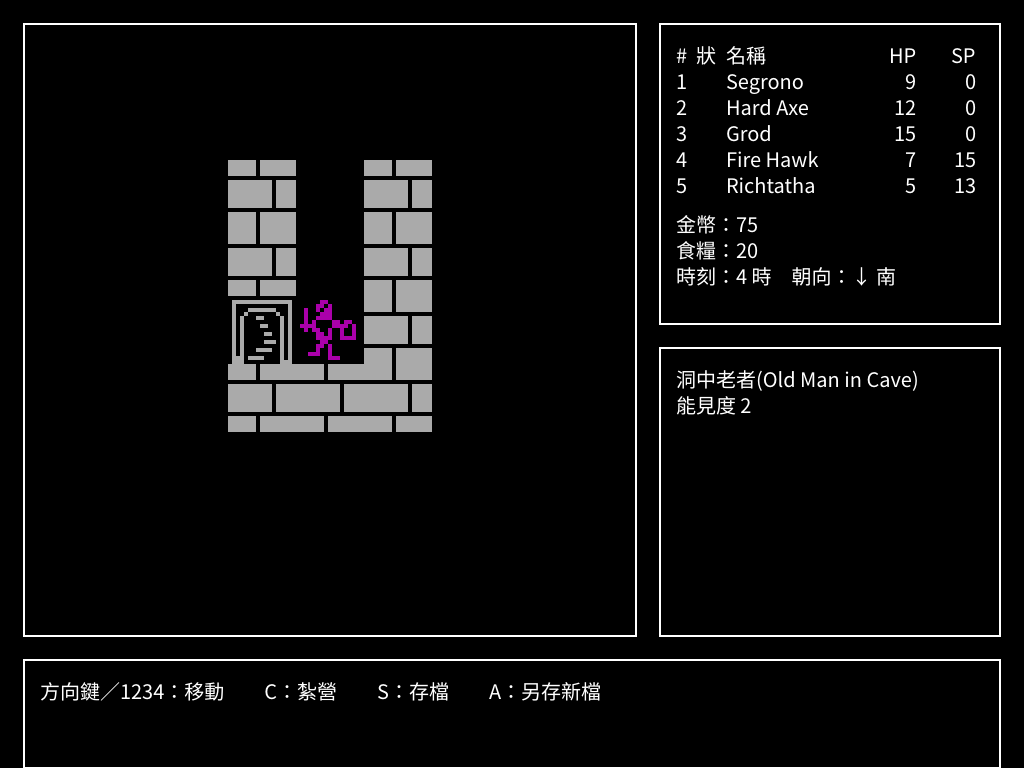
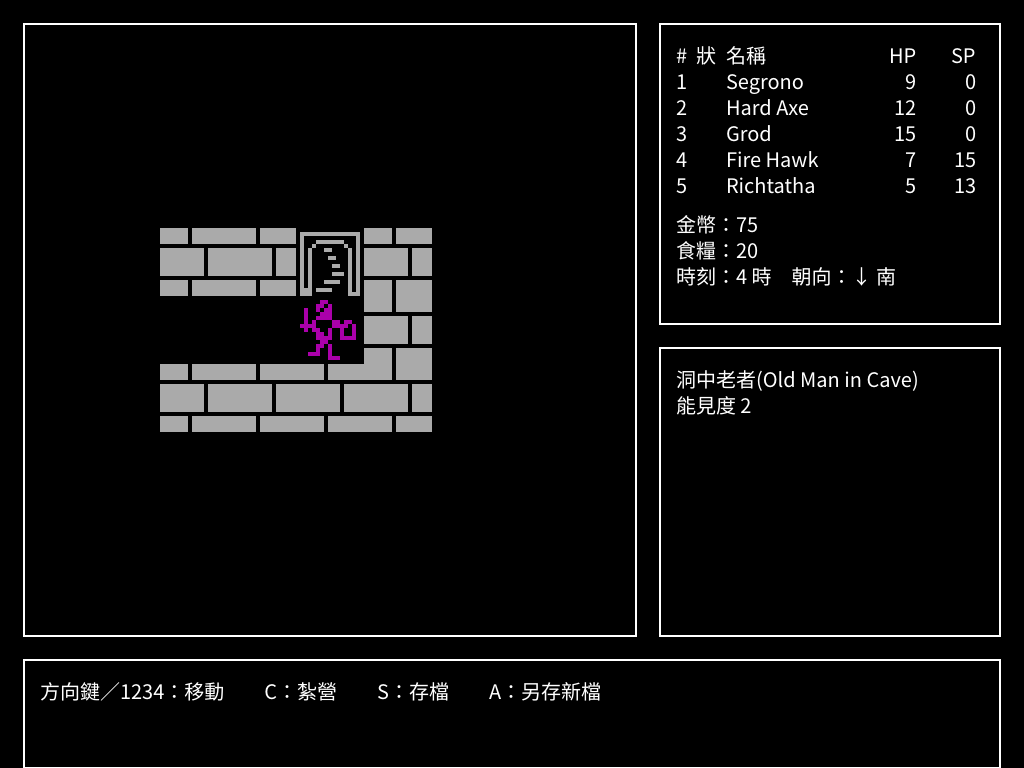
迷宮兩軸修正:Major 是南北、Minor 是東西
QA 第三輪 B 組最重的一條。引擎先前取「Major 是水平」——
那是 maze.go 註解自己標明的實作決定,而不是 RE 結論。

判準是**事件表自己**(docs/re/224):事件的方向欄是「站上這一格時
面向哪裡」,所以來源格 = 事件格 − delta(方向),來源格是牆的事件
永遠觸發不了。419 個帶方向的事件,正確的對應讓 418 個有可走的來源格,
先前的對應只剩 75 個 —— 差 5.6 倍。

看得見的後果:治療池 (54,42) Dir=4 的四鄰只有一格走得通,而先前的
對應要求的來源格是牆 —— **那座池子沒有任何路徑可以觸發**,
畫面上卻看不出任何異常。修正後與原版截圖逐格吻合。

⚠ 兩處要一起改:`delta()` 與 `drawMaze` 的軸。只改一邊會更糟。
⚠ 既有測試擋不住,因為它們用自己造的格子圖 —— fixture 用哪一套座標寫,
就會通過哪一套。新的 `TestEveryDirectionalEventHasAWalkableSource`
讀原版三個檔算可達性。

Changed region(s): [[0.1562, 0.1875, 0.4375, 0.5625]]

diff --git a/engine/internal/maze/maze_test.go b/engine/internal/maze/maze_test.go
@@ -1,6 +1,9 @@
 package maze
 
 import (
+	"fmt"
+	"os"
+	"path/filepath"
 	"testing"
 
 	"shardofspring/internal/original"
@@ -35,7 +38,8 @@ func TestBlockingIsAnInterval(t *testing.T) {
 		tile int
 		want Result
 	}{{4, Moved}, {5, Blocked}, {10, Blocked}, {11, Moved}, {19, Moved}} {
-		m := grid(map[[2]int]int{{5, 4}: c.tile})
+		// ⚠ 北是 **Major−1**(docs/re/224:Major 是南北軸),不是 Minor−1。
+		m := grid(map[[2]int]int{{4, 5}: c.tile})
 		s := &State{Major: 5, Minor: 5, Facing: North}
 		if r := s.Step(North, m); r != c.want {
 			t.Errorf("格值 %d:得 %v,應為 %v", c.tile, r, c.want)
@@ -267,4 +271,77 @@ func TestDisableTargetBlanksEveryRow(t *testing.T) {
 	if got := Scan(evs, State{Major: 57, Minor: 14, Facing: North}, text).Kind; got != KindNone {
 		t.Errorf("作廢後仍掃得到:%v", got)
 	}
+}
+
+// TestEveryDirectionalEventHasAWalkableSource —— 每個帶方向的事件都要走得進去。
+//
+// 事件的方向欄是「站上這一格時面向哪裡」,而面向 = 上一步的方向,
+// 所以來源格 = 事件格 − delta(方向)。**來源格是牆的事件永遠觸發不了。**
+//
+// 這條同時是兩軸對應的判準(docs/re/224):419 個帶方向的事件裡,
+// 正確的對應讓 418 個有可走的來源格;兩軸對調只剩 75 個。
+// ⛔ 這不是「大部分都對就好」—— 差距是 5.6 倍,不會看錯。
+//
+// ⚠ 唯一那一個例外在 `DT5` 的 (77,1),來源格是 Minor 0(邊界)。沒查。
+func TestEveryDirectionalEventHasAWalkableSource(t *testing.T) {
+	dir := gameDir(t)
+	entries, err := original.ParseMazeData(readGame(t, dir, "MAZEDATA.BIN"))
+	if err != nil {
+		t.Fatal(err)
+	}
+	ok, bad := 0, 0
+	for _, e := range entries {
+		if e.MazeFile == 0 {
+			continue
+		}
+		grid, err := original.DecodeSQZ(readGame(t, dir,
+			fmt.Sprintf("DG%dMAZE.SQZ", e.MazeFile)))
+		if err != nil {
+			t.Fatal(err)
+		}
+		evs, err := original.ParseEvents(readGame(t, dir,
+			fmt.Sprintf("DE%dEFF.BIN", e.TextFile)))
+		if err != nil {
+			t.Fatal(err)
+		}
+		for _, ev := range evs {
+			if ev.Dir == 0 || (ev.Major == 0 && ev.Minor == 0) {
+				continue
+			}
+			dM, dm := Facing(ev.Dir).delta()
+			if original.MazePassable(grid.At(ev.Major-dM, ev.Minor-dm)) {
+				ok++
+			} else {
+				bad++
+			}
+		}
+	}
+	if ok == 0 {
+		t.Fatal("一個帶方向的事件都沒掃到 —— 這條檢查什麼都沒測")
+	}
+	if ok < bad*5 {
+		t.Errorf("帶方向的事件:可達 %d、不可達 %d —— 兩軸的對應反了?"+
+			"(docs/re/224:正確的對應是 418 比 1)", ok, bad)
+	}
+}
+
+// gameDir / readGame:找原版目錄並讀檔。找不到就 skip(同 gate_test.go)。
+func gameDir(t *testing.T) string {
+	t.Helper()
+	for _, d := range []string{"/game/sharspri", "../../../../game/sharspri"} {
+		if _, err := os.Stat(d); err == nil {
+			return d
+		}
+	}
+	t.Skip("找不到原版 game/sharspri —— 這一項沒有被驗證")
+	return ""
+}
+
+func readGame(t *testing.T, dir, name string) []byte {
+	t.Helper()
+	b, err := os.ReadFile(filepath.Join(dir, name))
+	if err != nil {
+		t.Fatal(err)
+	}
+	return b
 }

diff --git a/engine/internal/maze/maze.go b/engine/internal/maze/maze.go
@@ -38,19 +38,24 @@ const (
 
 // delta 回傳朝向在 (Major, Minor) 上的位移。
 //
-// ⚠ Major 是乘 81 的那個索引(docs/re/137)。哪個方向動 Major、
-// 哪個動 Minor,**沒有被 RE 確認過** —— 這裡取「Major 是水平、Minor 是垂直」,
-// 與世界地圖的 x/y 對齊,是實作決定。走起來若發現迷宮橫豎顛倒,改這裡。
+// **Major 是南北(列)、Minor 是東西(行)**(docs/re/224)——
+// 也就是 `Major = y`、`Minor = x`,與直覺相反的那一邊。
+//
+// 判準是**事件表自己**:每個帶方向的事件都要有一格走得進來的來源格
+// (站上去的那一步的前一格)。419 個帶方向的事件裡,
+// 這個對應讓 **418 個**有可走的來源格;把兩軸對調只剩 **75 個**。
+// ⛔ 不要「照世界地圖的 x/y 對齊」去猜 —— 那正是先前的實作決定,
+// 而它讓治療池那類事件**完全沒有路徑可以觸發**(來源格是牆)。
 func (f Facing) delta() (dMajor, dMinor int) {
 	switch f {
 	case North:
-		return 0, -1
-	case East:
-		return 1, 0
-	case South:
-		return 0, 1
-	case West:
 		return -1, 0
+	case East:
+		return 0, 1
+	case South:
+		return 1, 0
+	case West:
+		return 0, -1
 	}
 	return 0, 0
 }

diff --git a/engine/internal/maze/gate_test.go b/engine/internal/maze/gate_test.go
@@ -105,15 +105,15 @@ func TestPartyCanWalkThroughOpenedGate(t *testing.T) {
 	major, minor := GateCell()
 
 	// 走廊沿 major 軸(TestGateSitsInACorridor 驗的就是這一軸),
-	// 而 East 的位移是 major+1 —— 從門的前一格朝東走一步就撞到門。
-	blocked := State{Major: major - 1, Minor: minor, Facing: East}
-	if r := blocked.Step(East, m); r == Moved {
+	// 而 major 是**南北**軸(docs/re/224)—— 從門的南邊那一格朝北走一步就撞到門。
+	blocked := State{Major: major + 1, Minor: minor, Facing: North}
+	if r := blocked.Step(North, m); r == Moved {
 		t.Fatal("門還關著就走得過去 —— 那這道門從頭到尾沒有作用")
 	}
 
 	OpenGate(m, GateMaze, 1)
-	open := State{Major: major - 1, Minor: minor, Facing: East}
-	if r := open.Step(East, m); r != Moved {
+	open := State{Major: major + 1, Minor: minor, Facing: North}
+	if r := open.Step(North, m); r != Moved {
 		t.Errorf("門開了卻走不過去(Step 回 %v)", r)
 	}
 }

diff --git a/engine/maze_scene.go b/engine/maze_scene.go
@@ -298,8 +298,11 @@ func (g *Game) drawMaze(dst *ebiten.Image) {
 	const half = layout.ViewTiles / 2
 	for vy := 0; vy < layout.ViewTiles; vy++ {
 		for vx := 0; vx < layout.ViewTiles; vx++ {
-			aM := g.mazeState.Major - half + vx
-			am := g.mazeState.Minor - half + vy
+			// ⚠ **Major 畫在垂直軸** —— Major 是南北、Minor 是東西
+			// (docs/re/224)。畫反的話地圖看起來仍然像一座迷宮,
+			// 只是整張轉置,而**事件的方向欄會全部對不上**。
+			aM := g.mazeState.Major - half + vy
+			am := g.mazeState.Minor - half + vx
 			px := float32(layout.View.X + vx*layout.TileDst)
 			py := float32(layout.View.Y + vy*layout.TileDst)
 			if !maze.Visible(g.mazeState, aM, am) {

diff --git a/docs/re/224-maze-axes-major-is-north-south.md b/docs/re/224-maze-axes-major-is-north-south.md
@@ -1,0 +1,73 @@
+# 224 — 迷宮的 Major 是南北、Minor 是東西
+
+> 輸入:`MAZEDATA.BIN`、`DG*MAZE.SQZ`、`DE*EFF.BIN`(SHA-256 見
+> [`00-inputs.md`](00-inputs.md))、原版實跑截圖。
+> 信心:**已確認**(事件表的可達性 418:1;畫面與原版逐格吻合)。
+
+## 結論
+
+```
+Major = 南北(列,y)      北 = Major−1   南 = Major+1
+Minor = 東西(行,x)      西 = Minor−1   東 = Minor+1
+```
+
+引擎先前取的是相反的對應。[`137`](137-maze-coordinate-order.md) 確認的是
+**兩欄的順序**(MAZEDATA 的起始位置、事件表、`GROUPS.DAT` 三者同序),
+**沒有**確認哪一欄是哪一軸 —— `engine/internal/maze/maze.go` 的註解當時就寫著
+「這裡取『Major 是水平』,是實作決定;走起來若發現橫豎顛倒,改這裡」。
+這一篇就是那個「走起來」。
+
+## 1. 判準:事件的來源格
+
+事件表的方向欄是「站上這一格時面向哪裡」,而面向 = **上一步的方向**,
+所以走進事件格的前一格是 `事件格 − delta(方向)`。
+**來源格是牆的事件永遠觸發不了。**
+
+把四種可能的軸向對應各套一遍,數「有幾個帶方向的事件有可走的來源格」:
+
+| 對應 | 可達 | 不可達 |
+|---|---:|---:|
+| **N(−1,0) E(0,+1) S(+1,0) W(0,−1)** | **418** | **1** |
+| N(+1,0) E(0,−1) S(−1,0) W(0,+1) | 341 | 78 |
+| N(0,−1) E(+1,0) S(0,+1) W(−1,0)(先前的實作) | 75 | 344 |
+| N(0,+1) E(−1,0) S(0,−1) W(+1,0) | 76 | 343 |
+
+差距 **5.6 倍**,不是「大部分都對」那種模稜兩可。
+唯一的例外在 `DT5` 的 (77,1),來源格是 `Minor 0`(邊界)—— 沒查。
+
+具體到看得見的後果:治療池的事件是 `(54,42) Dir=4`,而那一格的四鄰只有
+`(54,43)` 走得通(其餘三面是 `7` = 牆)。先前的對應要求來源格是 `(53,42)`,
+**那是牆** —— 這座池子在重製版沒有任何路徑可以觸發,而畫面上看不出任何異常。
+
+## 2. 旁證:畫面
+
+同一個地城入口(洞中老者),原版的門在隊伍**正上方**、牆是橫的。
+修正之後重製版逐格吻合(`workplace/dosbox/shots/d0-in.png` vs `docs/images/05-maze.png`)。
+
+修正前是**整張轉置**:仍然像一座迷宮,只是門跑到左邊 ——
+「看起來沒有壞掉」正是這個錯誤活這麼久的原因。
+
+## 3. 要一起改的兩處
+
+| 位置 | 改法 |
+|---|---|
+| `internal/maze/maze.go` 的 `delta()` | 四個方向的位移 |
+| `engine/maze_scene.go` 的 `drawMaze` | Major 畫在**垂直**軸 |
+
+⚠ **只改一邊會更糟**:只改畫面 → 事件方向全部對不上;
+只改方向 → 畫面與按鍵感覺相反。
+
+`GROUPS.DAT` 位移 79/81 不必動 —— 它與事件表同序([`137`](137-maze-coordinate-order.md)),
+換的是「哪一欄畫在哪一軸」,不是欄的順序。
+
+## 4. 為什麼測試擋不住
+
+`internal/maze` 的既有測試都是**自己造的格子圖**(`grid(map[[2]int]int{...})`),
+座標由測試自己指定 —— 它們驗的是「Step 有沒有照 delta 走」,
+而 delta 是被測的那一項。**自己造的 fixture 測不出座標系的錯。**
+
+現在補的 `TestEveryDirectionalEventHasAWalkableSource` 讀**原版的三個檔**
+(MAZEDATA + SQZ + 事件表)算可達性 —— 兩軸對調就會紅。
+
+> **判準:座標系的錯誤要靠「跨檔案的一致性」抓,不能靠單元測試的 fixture。**
+> fixture 用哪一套座標寫,就會通過哪一套。
